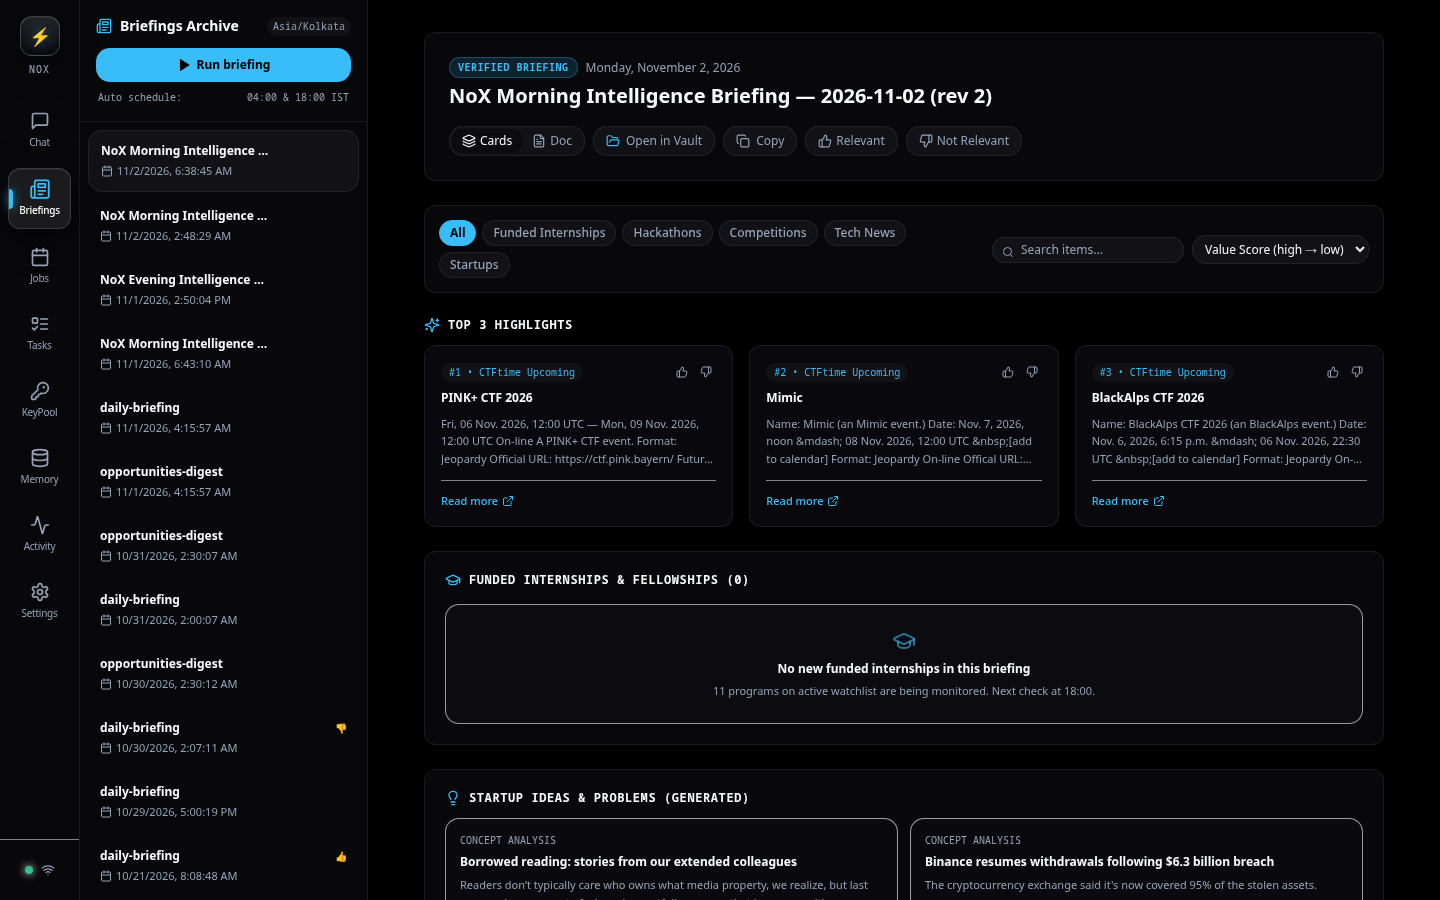
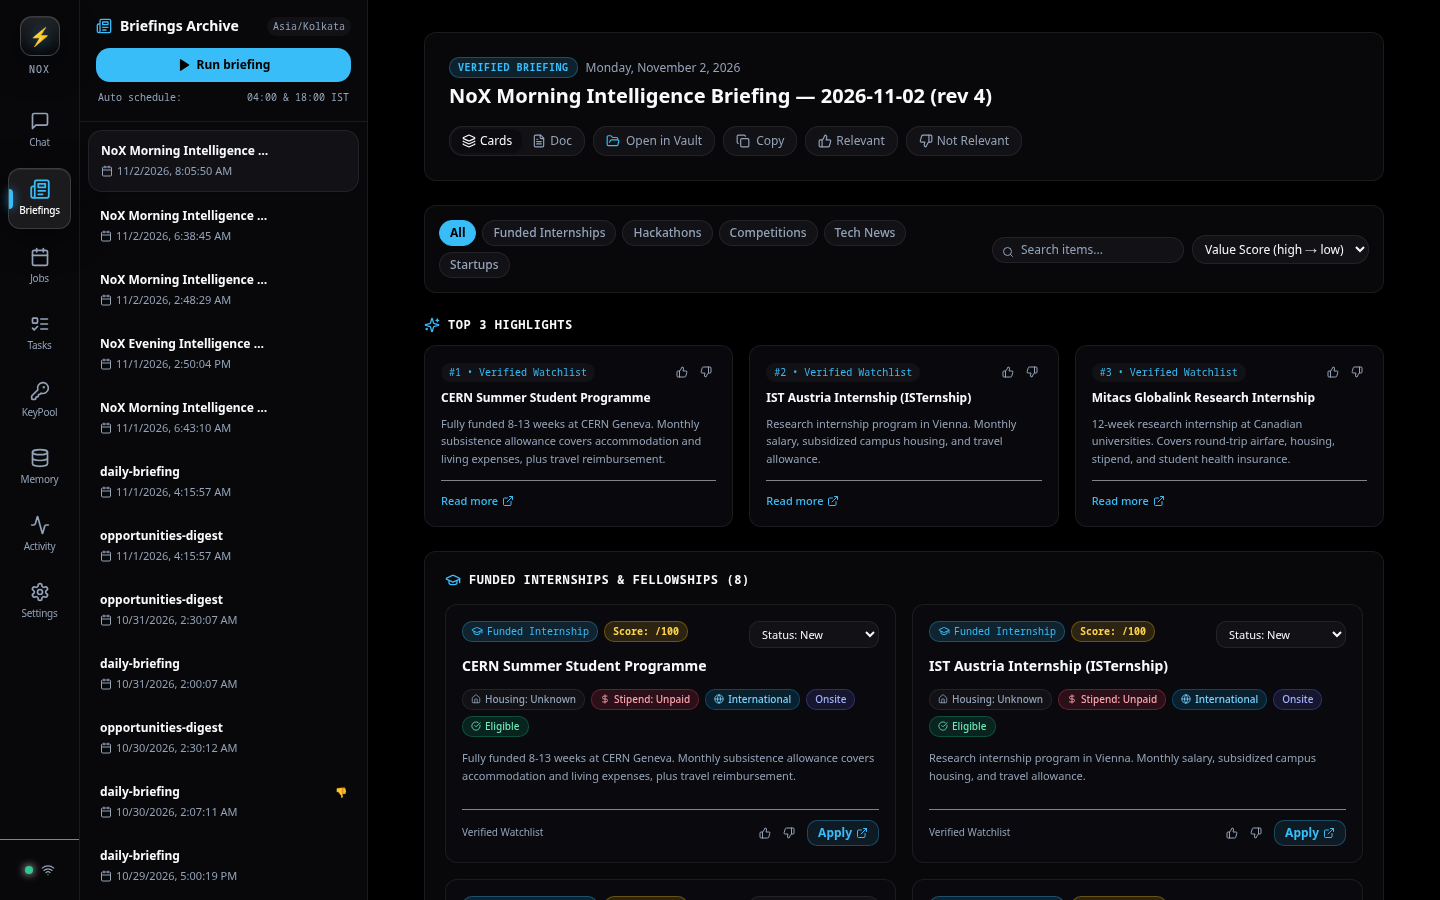
test(verify): Phase 7 full system verification, URL probe validation, and updated UI screenshots

diff --git a/ui/src/pages/BriefingsPage.tsx b/ui/src/pages/BriefingsPage.tsx
@@ -520,12 +520,12 @@ export const BriefingsPage: React.FC = () => {
             {op.benefits?.stipend && op.benefits.stipend !== 'none' && op.benefits.stipend !== 'unpaid' ? (
               <span className="px-2 py-0.5 rounded text-[10px] font-medium bg-emerald-500/15 text-emerald-300 border border-emerald-500/30 flex items-center gap-1">
                 <DollarSign className="w-2.5 h-2.5" />
-                Stipend
+                Stipend: Paid
               </span>
             ) : (
               <span className="px-2 py-0.5 rounded text-[10px] font-medium bg-rose-500/15 text-rose-300 border border-rose-500/30 flex items-center gap-1">
                 <DollarSign className="w-2.5 h-2.5" />
-                Unpaid
+                Stipend: Unpaid
               </span>
             )}
 

diff --git a/src/noxai/api/routes.py b/src/noxai/api/routes.py
@@ -1131,6 +1131,7 @@ async def list_briefings(
 async def run_briefing_slot(request: Request, req: RunBriefingRequest | None = None) -> Any:
     """Trigger an on-demand briefing pipeline run through the TaskSupervisor."""
     from fastapi.responses import JSONResponse
+
     from noxai.briefing.scheduler import BriefingScheduler
 
     sched: BriefingScheduler | None = getattr(request.app.state, "briefing_scheduler", None)
@@ -1342,6 +1343,7 @@ async def rate_briefing_detailed(briefing_id: str, fb: DetailedBriefingFeedback)
 async def get_notes_vault_info() -> dict[str, Any]:
     """Retrieve Notes Vault path, Obsidian URI, and system editor status."""
     import shutil
+
     from noxai.notes.vault import NotesVault
 
     vault = NotesVault()
@@ -1357,6 +1359,7 @@ async def open_notes_vault() -> dict[str, Any]:
     """Open Notes Vault in Obsidian or system default application."""
     import shutil
     import subprocess
+
     from noxai.notes.vault import NotesVault
 
     vault = NotesVault()
@@ -1366,18 +1369,32 @@ async def open_notes_vault() -> dict[str, Any]:
     target = path_str
     if shutil.which("obsidian"):
         try:
-            subprocess.Popen(["obsidian", uri], stdout=subprocess.DEVNULL, stderr=subprocess.DEVNULL)
+            subprocess.Popen(
+                ["obsidian", uri],
+                stdout=subprocess.DEVNULL,
+                stderr=subprocess.DEVNULL,
+            )
             opened = True
             target = uri
-        except Exception:
+        except OSError:
             pass
     if not opened and shutil.which("xdg-open"):
         try:
-            subprocess.Popen(["xdg-open", path_str], stdout=subprocess.DEVNULL, stderr=subprocess.DEVNULL)
+            subprocess.Popen(
+                ["xdg-open", path_str],
+                stdout=subprocess.DEVNULL,
+                stderr=subprocess.DEVNULL,
+            )
             opened = True
-        except Exception:
+        except OSError:
             pass
-    return {"ok": True, "opened": opened, "target": target, "vault_path": path_str, "obsidian_uri": uri}
+    return {
+        "ok": True,
+        "opened": opened,
+        "target": target,
+        "vault_path": path_str,
+        "obsidian_uri": uri,
+    }
 
 
 @api_router.get("/keys", dependencies=READ_DEPS)
@@ -1450,7 +1467,8 @@ async def get_thread_memory(conv_id: str) -> dict[str, Any]:
         csum = await fetch_one(
             db,
             """
-            SELECT fold_index, summary_markdown, key_facts_json, active_topics_json, token_count, created_at
+            SELECT fold_index, summary_markdown, key_facts_json,
+                   active_topics_json, token_count, created_at
             FROM conv_summaries WHERE conversation_id = ?
             ORDER BY fold_index DESC LIMIT 1
             """,
@@ -1493,7 +1511,11 @@ async def update_thread_summary(conv_id: str, body: ThreadSummaryUpdate) -> dict
     async with get_db() as db:
         csum = await fetch_one(
             db,
-            "SELECT id FROM conv_summaries WHERE conversation_id = ? ORDER BY fold_index DESC LIMIT 1",
+            """
+            SELECT id FROM conv_summaries
+            WHERE conversation_id = ?
+            ORDER BY fold_index DESC LIMIT 1
+            """,
             (conv_id,),
         )
         if csum:
@@ -1504,11 +1526,14 @@ async def update_thread_summary(conv_id: str, body: ThreadSummaryUpdate) -> dict
             )
         else:
             import uuid
+
             csum_id = f"csum_{uuid.uuid4().hex[:8]}"
             await execute(
                 db,
                 """
-                INSERT INTO conv_summaries (id, conversation_id, fold_index, summary_markdown, token_count)
+                INSERT INTO conv_summaries (
+                    id, conversation_id, fold_index, summary_markdown, token_count
+                )
                 VALUES (?, ?, 0, ?, ?)
                 """,
                 (csum_id, conv_id, body.summary, len(body.summary.split())),
@@ -1532,11 +1557,16 @@ async def reset_thread_memory(conv_id: str) -> dict[str, Any]:
 async def export_thread_to_vault(conv_id: str) -> dict[str, Any]:
     """Export thread digest note to Notes Vault."""
     from noxai.notes.vault import NotesVault
+
     async with get_db() as db:
         conv = await fetch_one(db, "SELECT title FROM conversations WHERE id = ?", (conv_id,))
         csum = await fetch_one(
             db,
-            "SELECT summary_markdown FROM conv_summaries WHERE conversation_id = ? ORDER BY fold_index DESC LIMIT 1",
+            """
+            SELECT summary_markdown FROM conv_summaries
+            WHERE conversation_id = ?
+            ORDER BY fold_index DESC LIMIT 1
+            """,
             (conv_id,),
         )
         title = conv["title"] if conv else f"Chat {conv_id}"
